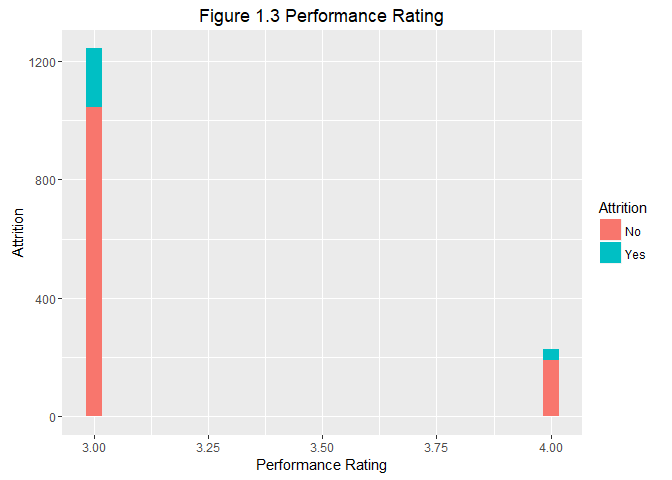
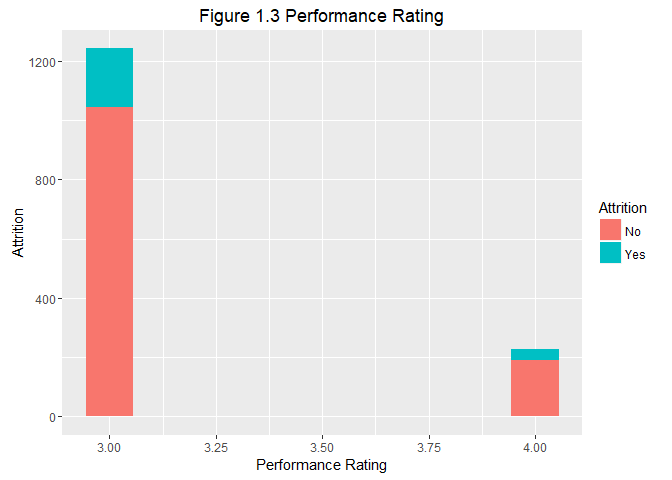
Adjust Univariate 1 Group and observation and suppress warnings

diff --git a/CaseStudy2.md b/CaseStudy2.md
@@ -87,53 +87,45 @@ Univariate 1 - further attrition analysis
 
 ``` r
 ggplot(case_data, aes(x = MonthlyIncome, fill=Attrition)) + 
-    geom_histogram(position="stack") +
+    geom_histogram(position="stack", bins=30) +
     ggtitle('Figure 1.1 Monthly Income') + 
     theme(plot.title = element_text(hjust = 0.5)) +
     xlab('Monthly Income') + 
     ylab('Attrition')
 ```
 
-    `stat_bin()` using `bins = 30`. Pick better value with `binwidth`.
-
 ![](CaseStudy2_files/figure-markdown_github/unnamed-chunk-5-1.png)
 
 ``` r
 ggplot(case_data, aes(x = PercentSalaryHike, fill=Attrition)) + 
-    geom_histogram(position="stack") +
+    geom_histogram(position="stack", bins=10) +
     ggtitle('Figure 1.2 Percent Salary Hike') + 
     theme(plot.title = element_text(hjust = 0.5)) +
     xlab('Percent Salary Hike') + 
     ylab('Attrition')
 ```
 
-    `stat_bin()` using `bins = 30`. Pick better value with `binwidth`.
-
 ![](CaseStudy2_files/figure-markdown_github/unnamed-chunk-5-2.png)
 
 ``` r
 ggplot(case_data, aes(x = PerformanceRating, fill=Attrition)) + 
-    geom_histogram(position="stack") +
+    geom_histogram(position="stack", bins=10) +
     ggtitle('Figure 1.3 Performance Rating') + 
     theme(plot.title = element_text(hjust = 0.5)) +
     xlab('Performance Rating') + 
     ylab('Attrition')
 ```
 
-    `stat_bin()` using `bins = 30`. Pick better value with `binwidth`.
-
 ![](CaseStudy2_files/figure-markdown_github/unnamed-chunk-5-3.png)
 
 ``` r
 ggplot(case_data, aes(x = StockOptionLevel, fill=Attrition)) + 
-    geom_histogram(position="stack") +
+    geom_histogram(position="stack", bins=10) +
     ggtitle('Figure 1.4 Stock Option Level') + 
     theme(plot.title = element_text(hjust = 0.5)) +
     xlab('Stock Option Level') + 
     ylab('Attrition')
 ```
-
-    `stat_bin()` using `bins = 30`. Pick better value with `binwidth`.
 
 ![](CaseStudy2_files/figure-markdown_github/unnamed-chunk-5-4.png)
 
@@ -151,7 +143,7 @@ ggplot(case_data, aes(x = StockOptionLevel, fill=Attrition)) +
 <tbody>
 <tr class="odd">
 <td>Monthly Income</td>
-<td>Could be the attrition factor, but not enough to be the univariate cause</td>
+<td>Could be the attrition factor, but <strong>not</strong> an univariate cause</td>
 </tr>
 <tr class="even">
 <td>Percent Salary Hike</td>
@@ -159,7 +151,7 @@ ggplot(case_data, aes(x = StockOptionLevel, fill=Attrition)) +
 </tr>
 <tr class="odd">
 <td>Performance Rating</td>
-<td>Could be the attrition factor, but not enough to be the univariate cause</td>
+<td>Could be the attrition factor, but <strong>not</strong> an univariate cause</td>
 </tr>
 <tr class="even">
 <td>Stock Option Level</td>
